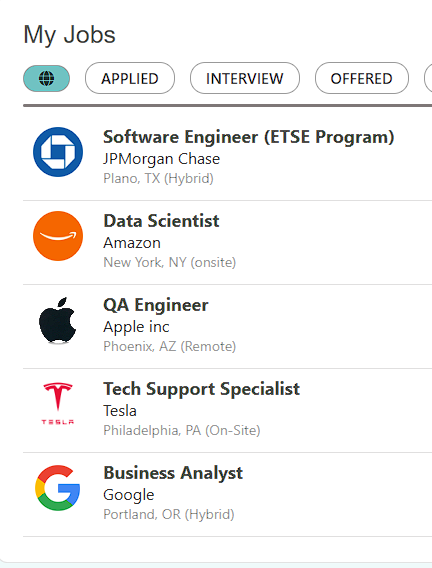
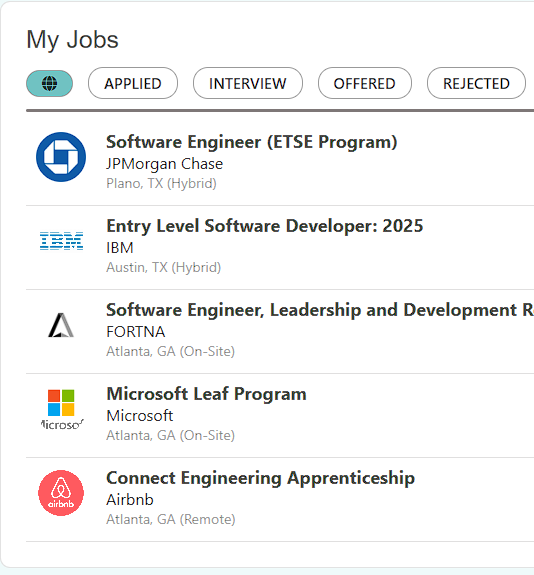
switch stage of the job application and fix bugs in delete api call

diff --git a/src/main/webapp/pub/js/myjobs.js b/src/main/webapp/pub/js/myjobs.js
@@ -8,33 +8,38 @@ document.querySelectorAll('.body-content-item-button-edit').forEach(button => {
 document.querySelectorAll('.body-content-item-button-delete').forEach(button => {
     button.addEventListener("click", (event) => {
         event.stopPropagation();
-        fetch('/jobs/delete/'+ button.getAttribute("data-id"), {
-            method: 'POST',
-        })
-            .then(response => {
-                if (response.ok) {
-                    return response.text(); // Get response text
-                } else {
-                    throw new Error('Failed to delete record.');
-                }
+        if (confirm("Are you sure you want to delete this data?")) {
+            fetch('/jobs/delete/' + button.getAttribute("data-id"), {
+                method: 'POST',
             })
-            .then(data => {
-                location.reload();
-            })
-            .catch(error => {
-                alert('Failed to delete record.');
-            });
+                .then(response => {
+                    if (response.ok) {
+                        return response.text(); // Get response text
+                    } else {
+                        throw new Error('Failed to delete record.');
+                    }
+                })
+                .then(data => {
+                    location.reload();
+                })
+                .catch(error => {
+                    alert('Failed to delete record.');
+                });
+        }
     })
 })
 
 document.querySelectorAll('.body-content-item-button-switch').forEach(button => {
     button.addEventListener("click", (event) => {
-        event.stopPropagation();
-        window.location.href = "/jobs/switch/" + button.getAttribute("data-id");
+        const nextOptions = event.target.nextElementSibling;
+        if (nextOptions) {
+            if (nextOptions.style.display === "flex") nextOptions.style.display = "none";
+            else nextOptions.style.display = "flex";
+        }
     })
 })
 
-document.querySelectorAll('.body-content-item').forEach(eachItem => {
+document.querySelectorAll('.body-content-item-main').forEach(eachItem => {
     eachItem.addEventListener("click", () => {
         window.location.href = "/jobs/view/" + eachItem.getAttribute("data-id");
     })

diff --git a/src/main/webapp/pub/css/body-content.css b/src/main/webapp/pub/css/body-content.css
@@ -74,11 +74,11 @@
     border-bottom: #e0dfdf 1px solid;
 }
 
-.body-content-item:hover {
+.body-content-item-main:hover {
     cursor: pointer;
 }
 
-.body-content-item:hover h2 {
+.body-content-item-main:hover h2 {
     text-decoration: underline;
 }
 
@@ -114,6 +114,33 @@
     background-color: #1111;
     cursor: pointer;
     border-radius: 50%;
+}
+
+.body-content-item-options {
+    position: absolute;
+    right: 60px;
+    display: none;
+    flex-direction: column;
+    background-color: var(--body-color);
+    width: 120px;
+    border: 1px solid #b1b1b1;
+    border-radius: 5px;
+    border-top-right-radius: 0;
+    box-shadow: 4px 4px 4px rgb(0 0 0 / .3);
+}
+
+.body-content-item-options a {
+    text-decoration: none;
+    text-align: center;
+    border-bottom: 1px solid black;
+    width: 100%;
+    padding-top: 7px;
+    padding-bottom: 7px;
+    color: #777777;
+}
+
+.body-content-item-options a:hover{
+    background-color: #c1c1c1;
 }
 
 .body-content-item-main {

diff --git a/src/main/webapp/pub/css/viewjobs.css b/src/main/webapp/pub/css/viewjobs.css
@@ -135,7 +135,7 @@
 .body-view-job-info-job-relationships {
     display: flex;
     flex-direction: row;
-    gap: 40px;
+    gap: 20px;
     margin-top: 20px;
 }
 
@@ -185,6 +185,7 @@
     font-size: 15px;
     margin-top: 15px;
 }
+
 .body-view-job-info-job-activities table {
     margin: 10px 10px 10px 50px;
 }

diff --git a/src/main/java/com/gin/job_tracker/controller/LoginController.java b/src/main/java/com/gin/job_tracker/controller/LoginController.java
@@ -1,7 +1,9 @@
 package com.gin.job_tracker.controller;
 
 import com.gin.job_tracker.database.dao.UserDAO;
+import com.gin.job_tracker.database.dao.UserRoleDAO;
 import com.gin.job_tracker.database.entity.User;
+import com.gin.job_tracker.database.entity.UserRole;
 import com.gin.job_tracker.formbean.SignUpFormBean;
 import com.gin.job_tracker.security.AuthenticatedUserService;
 import jakarta.servlet.http.HttpSession;
@@ -37,6 +39,8 @@ public class LoginController {
 
     @Autowired
     private AuthenticatedUserService authenticatedUserService;
+    @Autowired
+    private UserRoleDAO userRoleDAO;
 
     @GetMapping("/login")
     public ModelAndView login() {

diff --git a/src/main/java/com/gin/job_tracker/controller/JobController.java b/src/main/java/com/gin/job_tracker/controller/JobController.java
@@ -70,4 +70,12 @@ public class JobController {
         }
     }
 
+    @GetMapping("edit/{jobId}")
+    public String editJobStage(@PathVariable("jobId") Integer jobId, @RequestParam("stage") ApplicationStage stage)  {
+        Job job = jobDAO.findByIdAndUserId(jobId, authenticatedUserService.loadCurrentUser().getId());
+        job.setStage(stage);
+        jobDAO.save(job);
+        return "redirect:/jobs/myjobs";
+    }
+
 }
